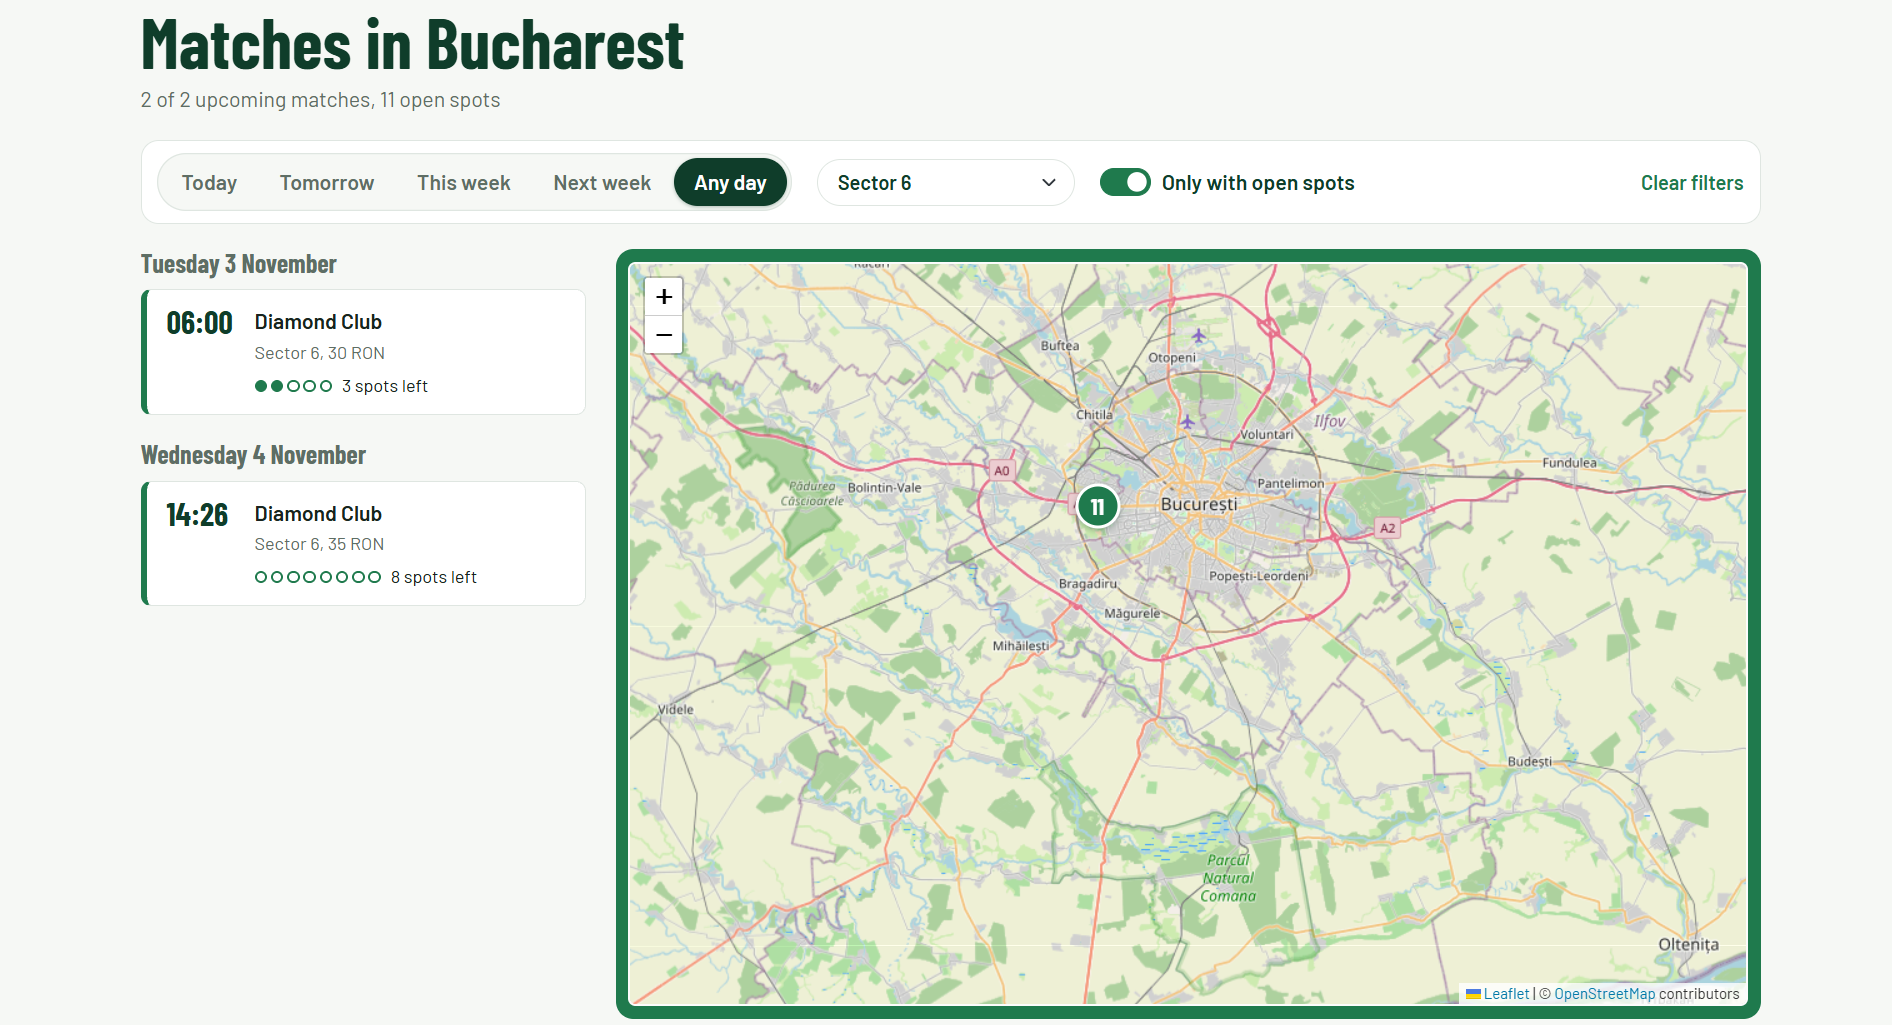
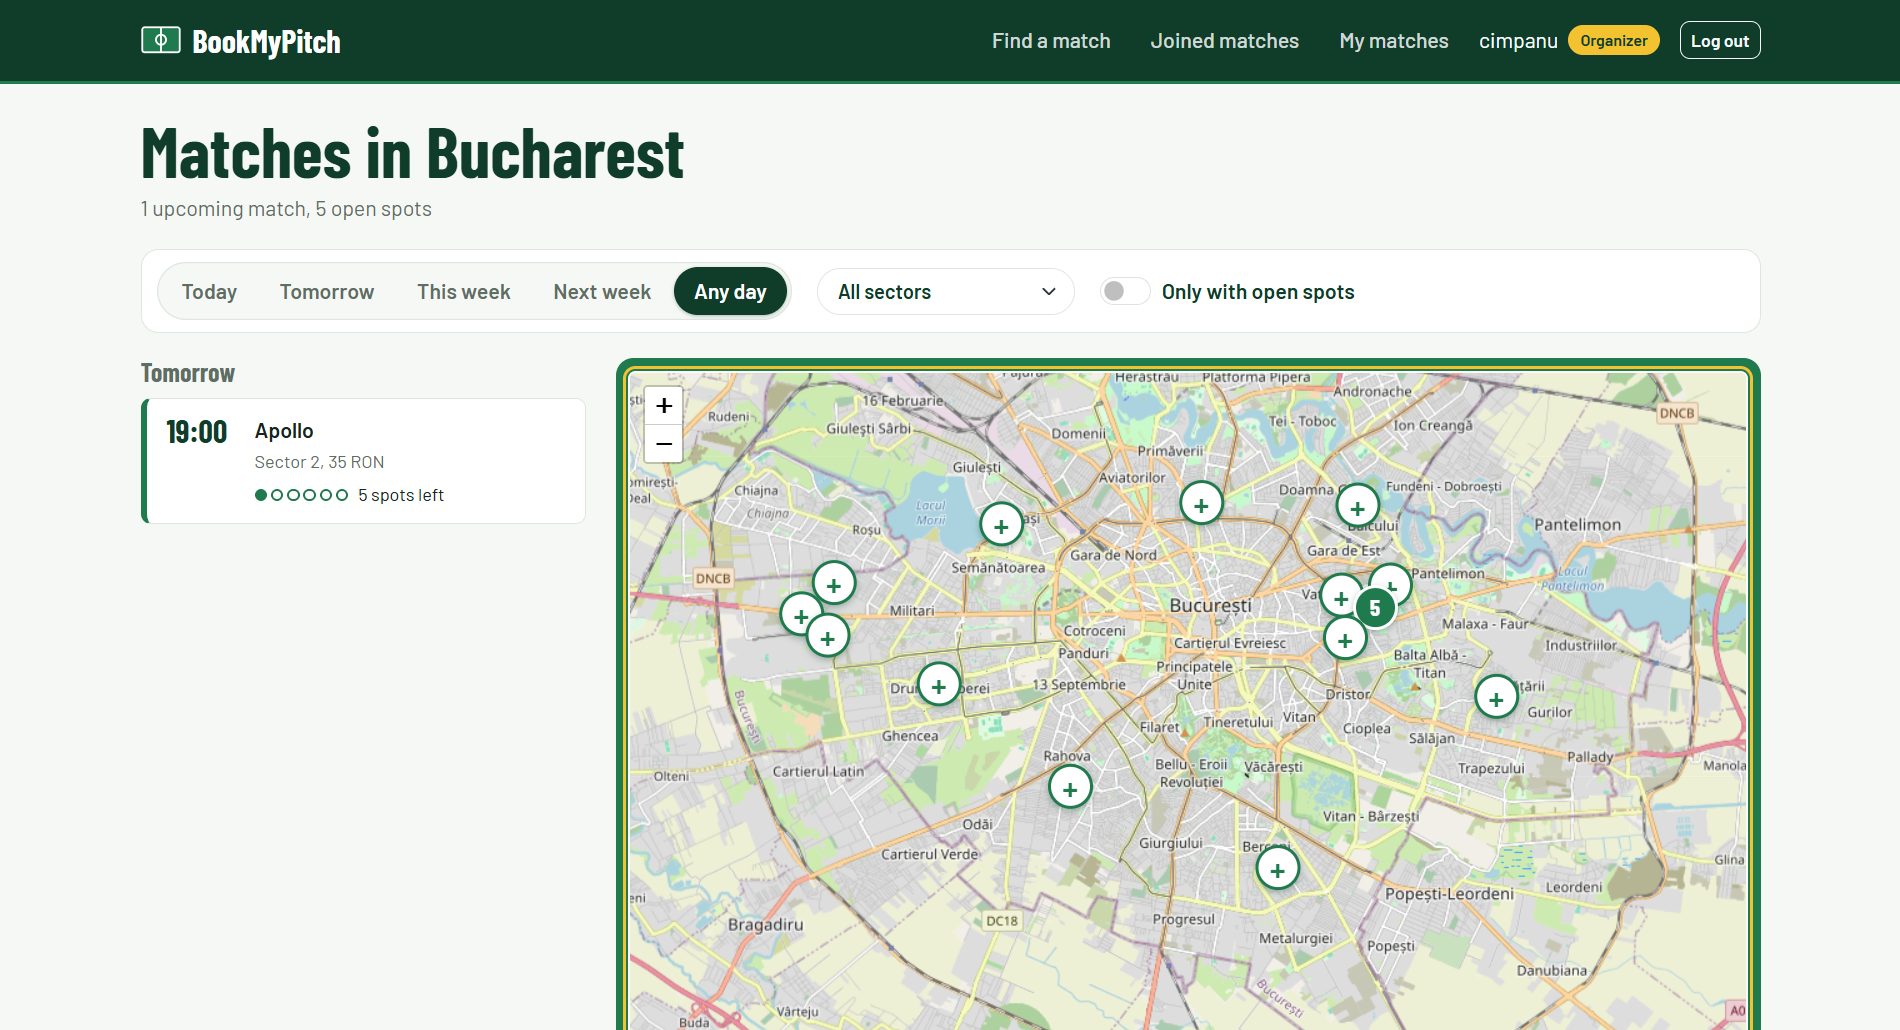
Update README and screenshots for bookings, owner panel and team chat

diff --git a/README.md b/README.md
@@ -4,23 +4,25 @@
 
 Find and join pickup football matches on synthetic pitches in Bucharest. Pitch owners list their pitches with opening hours, organizers book a free hour and post a match with open spots, and players take a spot and coordinate in a team chat.
 
-![Map of upcoming matches in Bucharest](docs/screenshots/home.png)
+![Map of matches and bookable pitches in Bucharest](docs/screenshots/home.png)
 
 ## Features
 
-- **Interactive map** of upcoming matches, with markers that show open spots and filters by day, sector and availability.
-- **Three roles.** Pitch owners list pitches with a price per hour and weekly opening hours, see who booked them, cancel bookings with a reason and block hours for maintenance. Organizers book a free hour, which creates the match, or add any other pitch by clicking on the map; they can edit and cancel matches and remove players. Players join and leave matches.
-- **Pitch booking without double bookings.** Free hours are worked out from the opening hours and existing bookings, and PostgreSQL itself refuses two overlapping bookings of the same pitch (an exclusion constraint on time ranges).
-- **Safe joining.** The last spot in a match can't be taken twice, even when several players click at the same moment (PostgreSQL row locking with `select_for_update`).
+- **Map of matches and pitches**, with filters by day, sector and open spots.
+- **Three roles:**
+  - **Players** join and leave matches and talk to their team in a private chat.
+  - **Organizers** book a free hour on a listed pitch, which creates the match, or post a match on any pitch they add to the map. They can edit and cancel matches and remove players.
+  - **Pitch owners** list pitches with a price per hour and weekly opening hours, see who booked them, cancel bookings with a reason and block hours for maintenance.
+- **No double bookings.** PostgreSQL itself refuses two overlapping bookings of the same pitch (an exclusion constraint on time ranges).
+- **No overbooked matches.** The last spot can't be taken twice, even when several players click at the same moment (row locking with `select_for_update`).
 - **Fair-play rules.** A 1-hour cooldown before rejoining a match you left, no rejoining after being removed, and leaving closes 2 hours before kick-off.
-- **Private team chat** for the organizer and the players in each match.
-- **75 automated tests**, including concurrency tests for joining and booking, run on every push with GitHub Actions.
+- **75 automated tests**, including concurrency tests, run on every push with GitHub Actions.
 
 ## Screenshots
 
-| Match page | Organizer view |
-| --- | --- |
-| ![Match page with lineup and team chat](docs/screenshots/match.png) | ![Organizer's list of matches](docs/screenshots/organizer.png) |
+| Match page and team chat | Booking a pitch | Owner's bookings |
+| --- | --- | --- |
+| ![Match page with lineup and team chat](docs/screenshots/match.png) | ![Picking a day, duration and start time](docs/screenshots/booking.png) | ![Owner's upcoming bookings and blocked times](docs/screenshots/owner.png) |
 
 ## Tech stack
 
@@ -38,7 +40,7 @@ venv\Scripts\activate          # macOS / Linux: source venv/bin/activate
 pip install -r requirements.txt
 ```
 
-Create a PostgreSQL database, copy `.env.example` to `.env` and fill in your values. Then:
+Create a PostgreSQL database owned by your database user (the migrations enable the `btree_gist` extension, and the tests need the `CREATEDB` permission). Copy `.env.example` to `.env` and fill in your values. Then:
 
 ```bash
 python manage.py migrate
@@ -51,7 +53,7 @@ Run the tests with `python manage.py test`.
 ## Project structure
 
 ```
-accounts/    custom user model with organizer and player roles, sign up and log in
+accounts/    custom user model with player, organizer and pitch owner roles, sign up and log in
 matches/     pitches, bookings (bookings.py), matches, joining rules (services.py), team chat, map API, tests
 templates/   Django templates
 static/      styles and map / chat scripts
